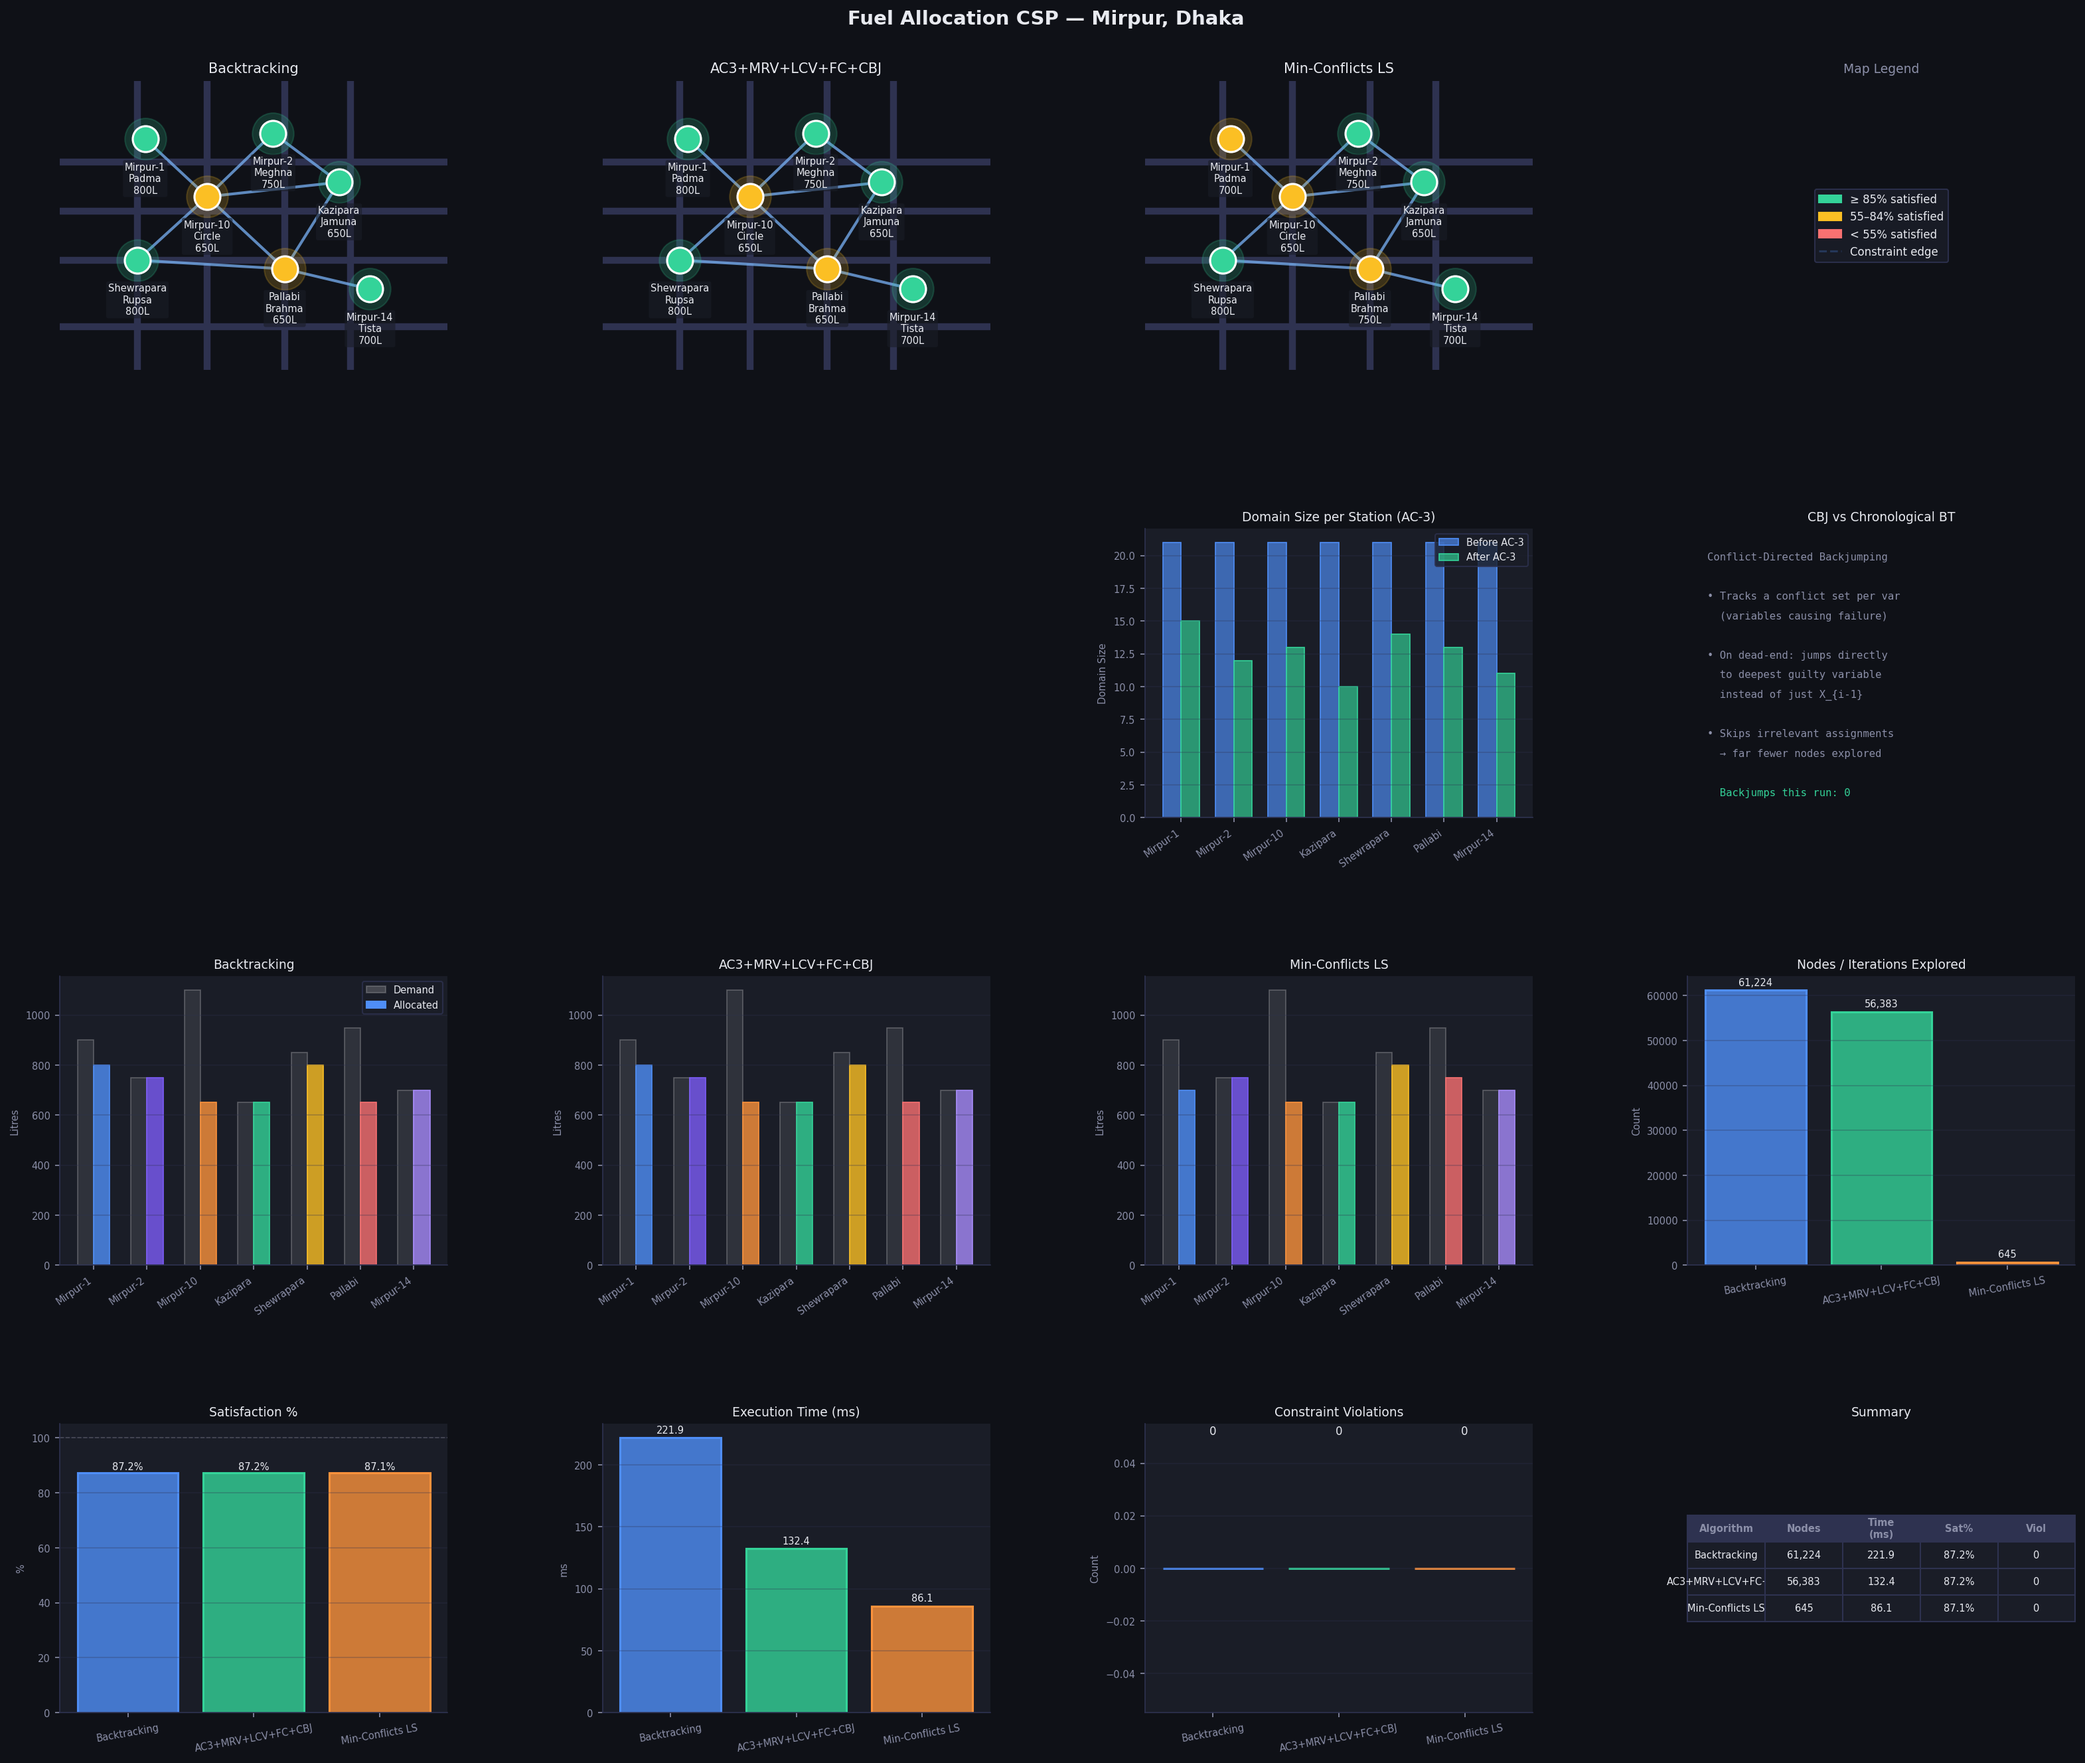
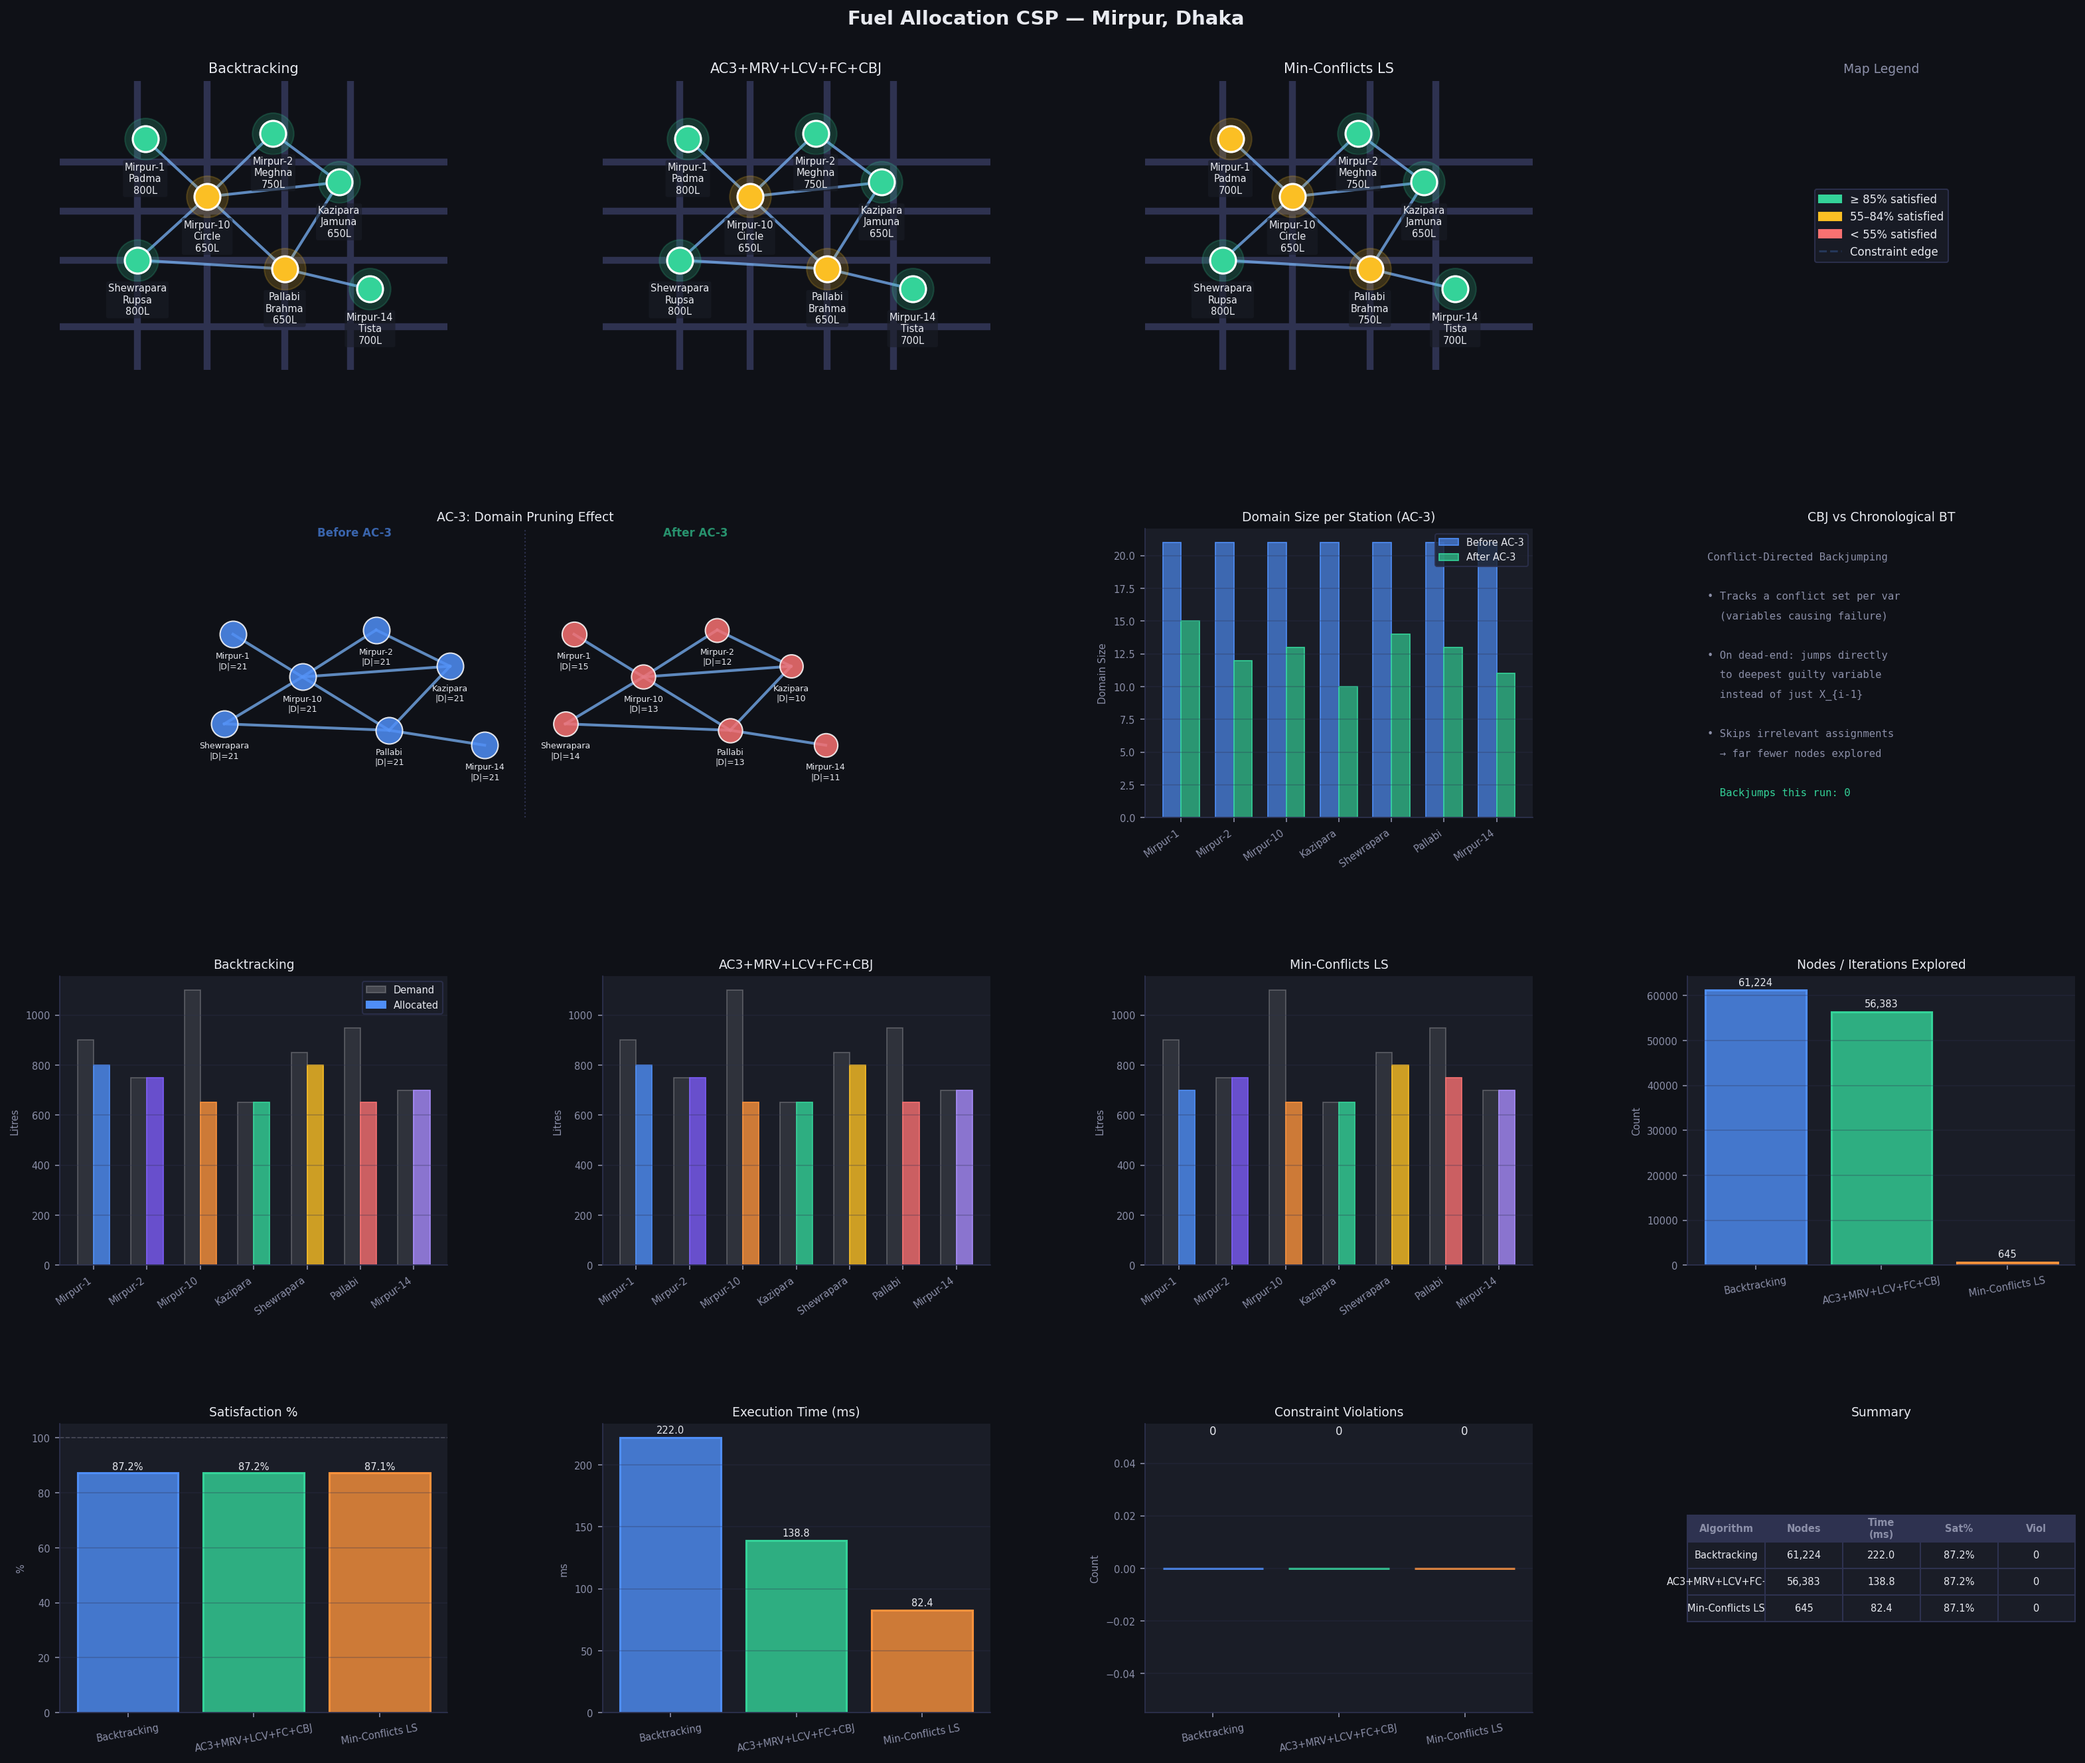
lab 2 start

diff --git a/lab/Lab_2/yaho/sad.py b/lab/Lab_2/yaho/sad.py
@@ -61,9 +61,38 @@ STATIONS = [
     {"id": 4, "name": "Shewrapara\nRupsa",  "x": 0.20, "y": 0.38, "demand": 850,  "priority": 3},
     {"id": 5, "name": "Pallabi\nBrahma",    "x": 0.58, "y": 0.35, "demand": 950,  "priority": 4},
     {"id": 6, "name": "Mirpur-14\nTista",   "x": 0.80, "y": 0.28, "demand": 700,  "priority": 2},
+
+    # ───── Added 13 new stations (7–19) ─────
+    {"id": 7,  "name": "Mirpur-11\nBuriganga", "x": 0.10, "y": 0.70, "demand": 800, "priority": 3},
+    {"id": 8,  "name": "Mirpur-12\nKarnafuli", "x": 0.30, "y": 0.72, "demand": 720, "priority": 2},
+    {"id": 9,  "name": "Mirpur-13\nSurma",     "x": 0.48, "y": 0.75, "demand": 680, "priority": 2},
+    {"id": 10, "name": "Rupnagar\nTeesta",     "x": 0.65, "y": 0.78, "demand": 900, "priority": 4},
+    {"id": 11, "name": "Shyamoli\nPadma-2",    "x": 0.15, "y": 0.55, "demand": 760, "priority": 3},
+    {"id": 12, "name": "Adabor\nMeghna-2",     "x": 0.35, "y": 0.52, "demand": 820, "priority": 3},
+    {"id": 13, "name": "Mohammadpur\nJamuna-2","x": 0.55, "y": 0.50, "demand": 880, "priority": 4},
+    {"id": 14, "name": "Agargaon\nRupsa-2",    "x": 0.75, "y": 0.55, "demand": 640, "priority": 2},
+    {"id": 15, "name": "Sher-e-Bangla\nTista-2","x": 0.85, "y": 0.60, "demand": 700, "priority": 2},
+    {"id": 16, "name": "Kallyanpur\nBuriganga-2","x": 0.25, "y": 0.30, "demand": 780, "priority": 3},
+    {"id": 17, "name": "Technical\nKarnafuli-2","x": 0.45, "y": 0.28, "demand": 850, "priority": 4},
+    {"id": 18, "name": "Gabtoli\nSurma-2",     "x": 0.65, "y": 0.25, "demand": 900, "priority": 5},
+    {"id": 19, "name": "Darussalam\nPadma-3",  "x": 0.85, "y": 0.30, "demand": 750, "priority": 3},
 ]
 
-EDGES = [(0,2),(1,2),(2,3),(2,4),(2,5),(3,5),(4,5),(5,6),(1,3)]
+
+
+EDGES = [
+    (0,2),(1,2),(2,3),(2,4),(2,5),(3,5),(4,5),(5,6),(1,3),
+
+    # ─── Chain expansion for new stations ───
+    (6,7),(7,8),(8,9),(9,10),
+    (10,13),(13,14),(14,15),
+    (4,11),(11,12),(12,13),
+    (16,17),(17,18),(18,19),
+
+    # ─── Cross-links (make graph CSP-hard, not linear) ───
+    (2,8),(5,12),(8,13),(10,14),(11,16),(13,17),(14,18)
+]
+
 
 N = len(STATIONS)
 
@@ -73,8 +102,12 @@ MIN_PER_STAT  = 200
 DOMAIN_STEP   = 50
 MAX_BINARY_DIFF = 0.20
 
-COLORS = ["#4f8ef7","#7c5cf7","#fb923c","#34d399","#fbbf24","#f87171","#a78bfa"]
-
+COLORS = [
+    "#4f8ef7","#7c5cf7","#fb923c","#34d399","#fbbf24",
+    "#f87171","#a78bfa","#60a5fa","#f472b6","#22c55e",
+    "#eab308","#38bdf8","#a78bfa","#fb7185","#10b981",
+    "#f97316","#6366f1","#14b8a6","#facc15","#8b5cf6"
+]
 # Adjacency list (neighbours per station)
 NEIGHBOURS = {i: set() for i in range(N)}
 for (a, b) in EDGES:
@@ -1096,8 +1129,8 @@ def main():
 
     best = max(results, key=lambda x: x["sat"])
     print(f"\n  ★  Best algorithm: {best['name']}  ({best['sat']:.1f}% satisfaction)")
-    # print("\n  Note: Algorithm 2 shows the effect of AC-3 graph pruning")
-    # print("  and CBJ jump count.  Local Search is fastest by iteration count.")
+    print("\n  Note: Algorithm 2 shows the effect of AC-3 graph pruning")
+    print("  and CBJ jump count.  Local Search is fastest by iteration count.")
 
     plot_results(results, r2)
 
